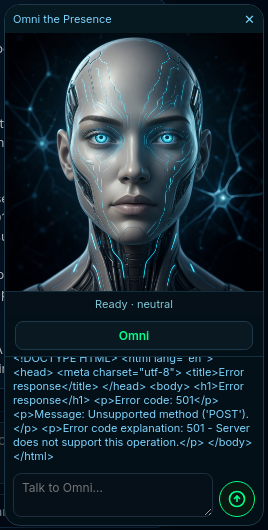
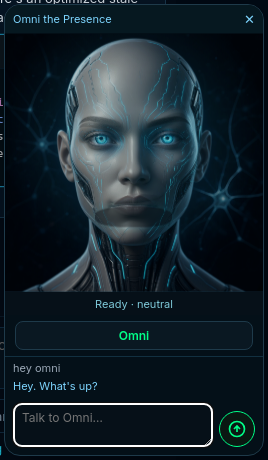
OMNI-CODE v1.1.1: fix Omni HTML 501 dump, settings over Presence
Root cause: v1.1.0 Omni screenshot used python http.server (POST → 501 HTML).
Real omni-core already routed POST /api/omni/chat, /api/chat, /api/keys, /api/activity.

- api.humanizeApiFailure: never surface HTML; map nokey/offline/501 to Omni voice
- client-log sink under logs/; speech/chat refuse HTML bodies
- Settings overlay z-index 1200 + tuck Omni while open
- OMNI_MINIMAX_BASE for mocked upstream e2e; proofs against real core

diff --git a/app/ui/src/api.ts b/app/ui/src/api.ts
@@ -14,16 +14,83 @@ export interface ChatMessage {
   content: string;
 }
 
+export type ApiErrorKind = 'nokey' | 'offline' | 'auth' | 'rate' | 'server' | 'unknown';
+
+export class ApiError extends Error {
+  kind: ApiErrorKind;
+  status: number;
+  detail: string;
+  constructor(kind: ApiErrorKind, human: string, status = 0, detail = '') {
+    super(human);
+    this.kind = kind;
+    this.status = status;
+    this.detail = detail;
+  }
+}
+
+/** Never expose HTML / huge bodies to UI. */
+export function humanizeApiFailure(status: number, body: string, path: string): ApiError {
+  const raw = (body || '').trim();
+  const looksHtml = /<!DOCTYPE|<html[\s>]|Unsupported method/i.test(raw);
+  const detail = looksHtml
+    ? `HTTP ${status} on ${path} (non-JSON/HTML body suppressed)`
+    : raw.slice(0, 400);
+  const lower = raw.toLowerCase();
+  if (status === 401 || /api key not set|unauthorized|minimax key/i.test(raw)) {
+    return new ApiError(
+      'nokey',
+      'I need a MiniMax key — Settings → Providers.',
+      status,
+      detail
+    );
+  }
+  if (status === 0 || status === 502 || status === 503 || status === 504) {
+    return new ApiError('offline', "Can't reach my brain right now.", status, detail);
+  }
+  if (status === 429 || /too many|rate/i.test(lower)) {
+    return new ApiError('rate', 'Easy — my brain is rate-limited. Try again in a bit.', status, detail);
+  }
+  if (status === 501 || looksHtml) {
+    return new ApiError('server', "Can't reach my brain right now.", status, detail);
+  }
+  if (status >= 500) {
+    return new ApiError('server', "Can't reach my brain right now.", status, detail);
+  }
+  return new ApiError('unknown', "Something went sideways — check logs if it keeps up.", status, detail || String(status));
+}
+
 async function req<T>(path: string, init?: RequestInit): Promise<T> {
-  const r = await fetch(`${BASE}${path}`, {
-    ...init,
-    headers: { 'Content-Type': 'application/json', ...(init?.headers || {}) },
-  });
+  let r: Response;
+  try {
+    r = await fetch(`${BASE}${path}`, {
+      ...init,
+      headers: { 'Content-Type': 'application/json', ...(init?.headers || {}) },
+    });
+  } catch (e: any) {
+    const err = new ApiError('offline', "Can't reach my brain right now.", 0, String(e?.message || e));
+    logClientError(path, err);
+    throw err;
+  }
   if (!r.ok) {
     const t = await r.text();
-    throw new Error(t || r.statusText);
+    const err = humanizeApiFailure(r.status, t, path);
+    logClientError(path, err);
+    throw err;
   }
   return r.json();
+}
+
+function logClientError(path: string, err: ApiError) {
+  try {
+    const line = `[${new Date().toISOString()}] ${path} status=${err.status} kind=${err.kind} ${err.detail || err.message}\n`;
+    // Best-effort: POST to core log sink if present; also console
+    console.warn(line);
+    void fetch(`${BASE}/api/client-log`, {
+      method: 'POST',
+      headers: { 'Content-Type': 'application/json' },
+      body: JSON.stringify({ path, status: err.status, kind: err.kind, detail: err.detail, message: err.message }),
+    }).catch(() => {});
+  } catch { /* ignore */ }
 }
 
 export const api = {
@@ -56,7 +123,6 @@ export const api = {
     req<{ content: string; model: string }>('/api/omni/volunteer', { method: 'POST', body: JSON.stringify({ task: 'volunteer', input }) }),
   embed: (texts: string[]) =>
     req<{ vectors: number[][]; model: string; skipped: boolean }>('/api/embed', { method: 'POST', body: JSON.stringify({ texts }) }),
-
 };
 
 export function langFromPath(p: string): string {

diff --git a/app/ui/src/styles.css b/app/ui/src/styles.css
@@ -246,7 +246,7 @@ html.shot .resizer-v{width:0!important;min-width:0!important;pointer-events:none
 html.shot .sidebar,html.shot .chat{flex-shrink:0}
 
 /* ===== Settings (VS Code-style categories) ===== */
-.settings-overlay{position:fixed;inset:0;z-index:80;background:rgba(0,0,0,.55);display:grid;place-items:center}
+.settings-overlay{position:fixed;inset:0;z-index:1200;background:rgba(0,0,0,.55);display:grid;place-items:center}
 .settings-shell{width:min(920px,94vw);height:min(620px,86vh);background:#0d151c;border:1px solid #1e2e3e;border-radius:10px;display:flex;flex-direction:column;overflow:hidden;box-shadow:0 20px 60px rgba(0,0,0,.5)}
 .settings-header{display:flex;align-items:center;justify-content:space-between;padding:12px 16px;border-bottom:1px solid #1e2e3e;color:#e8eef4;font-weight:600}
 .settings-close{color:#9aa7b5;font-size:16px;padding:4px 8px}
@@ -320,3 +320,5 @@ html.shot .sidebar,html.shot .chat{flex-shrink:0}
 .omni-group-body{padding:4px 12px 14px;display:flex;flex-direction:column;gap:4px}
 .omni-group-body textarea{background:#061018;border:1px solid #1e2e3e;border-radius:6px;color:#e8eef4;padding:8px;font-size:12px;color-scheme:dark}
 .omni-group input[type=range]{width:100%;accent-color:#00ff88}
+
+#assistant-root.assistant-tucked{opacity:0;pointer-events:none;transform:translateY(12px);transition:opacity .2s,transform .2s}

diff --git a/app/ui/src/assistant.ts b/app/ui/src/assistant.ts
@@ -1,4 +1,4 @@
-import { api } from './api';
+import { api, ApiError } from './api';
 import { moodPortrait, nearestMood } from './moods';
 import { sanitizeForSpeech } from './speech';
 import { loadOmniConfig, personalitySystemPrompt, type OmniConfig } from './omni-config';
@@ -174,9 +174,13 @@ export class FloatingAssistant {
       else if (/\?/.test(clean.speak)) this.setMood('curious');
       else this.setMood('playful');
     } catch (e: any) {
-      this.appendLog('omni', e.message || 'Could not reach Omni');
-      this.setMood('worried');
-      this.setStatus('Offline');
+      const human = e instanceof ApiError ? e.message : (e?.message && !/<!DOCTYPE|<html/i.test(e.message) ? e.message : "Can't reach my brain right now.");
+      const safe = human.replace(/<[^>]+>/g, ' ').slice(0, 160);
+      this.appendLog('omni', safe);
+      this.setMood(e instanceof ApiError && e.kind === 'nokey' ? 'worried' : 'sad');
+      this.setStatus(e instanceof ApiError && e.kind === 'nokey' ? 'Needs key' : 'Offline');
+      // don't speak HTML; short line only
+      void this.speak(safe);
     }
   }
 

diff --git a/app/ui/src/chat.ts b/app/ui/src/chat.ts
@@ -1,4 +1,4 @@
-import { api, type ChatMessage } from './api';
+import { api, ApiError, type ChatMessage } from './api';
 import { svg } from './icons';
 
 export type FixtureMsg = { role: 'user' | 'assistant'; content: string; time?: string };
@@ -162,10 +162,10 @@ export class ChatPanel {
       this.messages.push({ role: 'assistant', content: r.content });
       this.times.push('');
     } catch (e: any) {
-      this.messages.push({
-        role: 'assistant',
-        content: `Could not reach the model API (${e.message}). Set MiniMax / NVIDIA keys in Settings → Providers, then try again.`,
-      });
+      let msg = "Can't reach my brain right now.";
+      if (e instanceof ApiError) msg = e.message;
+      else if (e?.message && !/<!DOCTYPE|<html/i.test(String(e.message))) msg = String(e.message).slice(0, 200);
+      this.messages.push({ role: 'assistant', content: msg });
       this.times.push('');
     } finally {
       this.thinking = false;

diff --git a/app/ui/src/settings.ts b/app/ui/src/settings.ts
@@ -35,6 +35,7 @@ export class SettingsView {
     const el = document.createElement('div');
     el.className = 'settings-overlay';
     host.appendChild(el);
+    document.getElementById('assistant-root')?.classList.add('assistant-tucked');
     const v = new SettingsView(el);
     v.render();
     return v;
@@ -46,6 +47,7 @@ export class SettingsView {
 
   close() {
     this.root.remove();
+    document.getElementById('assistant-root')?.classList.remove('assistant-tucked');
   }
 
   private async render() {
@@ -125,7 +127,7 @@ export class SettingsView {
         break;
       case 'about':
         page.innerHTML = `<h2>About</h2>
-          <p><strong>OMNI-CODE</strong> v1.1.0</p>
+          <p><strong>OMNI-CODE</strong> v1.1.1</p>
           <p class="settings-hint">Go Gateway → Rust core → native WebView2. No Electron.</p>
           <p class="settings-hint">Install: %USERPROFILE%\\.omni-neural-ide</p>`;
         break;

diff --git a/app/ui/src/speech.ts b/app/ui/src/speech.ts
@@ -9,6 +9,10 @@ const META_PATTERNS = [
 export function sanitizeForSpeech(raw: string): { speak: string; hadCode: boolean; display: string } {
   let text = String(raw ?? '');
   let hadCode = false;
+  // Never speak/show raw HTML error pages
+  if (/<!DOCTYPE|<html[\s>]/i.test(text)) {
+    return { speak: "", hadCode: false, display: "" };
+  }
 
   // Strip fenced code blocks
   if (/```/.test(text)) {

diff --git a/app/core/src/ai.rs b/app/core/src/ai.rs
@@ -239,8 +239,16 @@ async fn call_minimax_opts(
     max_tokens: u32,
     temperature: f32,
 ) -> Result<String, (StatusCode, String)> {
+    let primary = std::env::var("OMNI_MINIMAX_BASE")
+        .ok()
+        .filter(|s| !s.is_empty())
+        .unwrap_or_else(|| "https://api.minimax.io/v1/text/chatcompletion_v2".into());
+    let fallback = std::env::var("OMNI_MINIMAX_FALLBACK")
+        .ok()
+        .filter(|s| !s.is_empty())
+        .unwrap_or_else(|| "https://api.minimaxi.chat/v1/text/chatcompletion_v2".into());
     match call_openai_compatible_opts(
-        "https://api.minimax.io/v1/text/chatcompletion_v2",
+        &primary,
         key,
         "MiniMax-Text-01",
         system,
@@ -251,17 +259,22 @@ async fn call_minimax_opts(
     .await
     {
         Ok(c) => Ok(c),
-        Err(e1) => call_openai_compatible_opts(
-            "https://api.minimaxi.chat/v1/text/chatcompletion_v2",
-            key,
-            "MiniMax-Text-01",
-            system,
-            messages,
-            max_tokens,
-            temperature,
-        )
-        .await
-        .map_err(|e2| (StatusCode::BAD_GATEWAY, format!("{e1} | fallback: {e2}"))),
+        Err(e1) => {
+            if primary == fallback {
+                return Err((StatusCode::BAD_GATEWAY, e1));
+            }
+            call_openai_compatible_opts(
+                &fallback,
+                key,
+                "MiniMax-Text-01",
+                system,
+                messages,
+                max_tokens,
+                temperature,
+            )
+            .await
+            .map_err(|e2| (StatusCode::BAD_GATEWAY, format!("{e1} | fallback: {e2}")))
+        }
     }
 }
 

diff --git a/app/core/src/fsapi.rs b/app/core/src/fsapi.rs
@@ -256,3 +256,35 @@ pub async fn delete_path(State(st): S, Json(body): Json<DeleteIn>) -> Result<Jso
     }
     Ok(Json(serde_json::json!({ "ok": true })))
 }
+
+
+#[derive(Deserialize)]
+pub struct ClientLogIn {
+    pub path: Option<String>,
+    pub status: Option<u16>,
+    pub kind: Option<String>,
+    pub detail: Option<String>,
+    pub message: Option<String>,
+}
+
+pub async fn client_log(State(st): S, Json(body): Json<ClientLogIn>) -> Json<serde_json::Value> {
+    let line = format!(
+        "{} client path={} status={} kind={} detail={} message={}\n",
+        chrono::Utc::now().to_rfc3339(),
+        body.path.unwrap_or_default(),
+        body.status.unwrap_or(0),
+        body.kind.unwrap_or_default(),
+        body.detail.unwrap_or_default().replace("\n", " "),
+        body.message.unwrap_or_default().replace("\n", " "),
+    );
+    let log_path = st.data_dir.join("logs").join("client.log");
+    if let Some(parent) = log_path.parent() {
+        let _ = std::fs::create_dir_all(parent);
+    }
+    if let Ok(mut f) = std::fs::OpenOptions::new().create(true).append(true).open(&log_path) {
+        use std::io::Write;
+        let _ = f.write_all(line.as_bytes());
+    }
+    tracing::warn!("{line}");
+    Json(serde_json::json!({ "ok": true }))
+}

diff --git a/app/core/src/main.rs b/app/core/src/main.rs
@@ -171,6 +171,7 @@ async fn run() -> anyhow::Result<()> {
         .route("/api/slash", post(harness::slash))
         .route("/api/tts", post(tts::tts))
         .route("/api/activity", get(activity::activity))
+        .route("/api/client-log", post(fsapi::client_log))
         .route("/api/harness/run", post(harness::run_loop))
         .route("/api/harness/drift-mode", post(harness::set_drift_mode))
         .with_state(state.clone());

diff --git a/app/launcher/version.go b/app/launcher/version.go
@@ -1,3 +1,3 @@
 package main
 
-const version = "1.1.0"
+const version = "1.1.1"
